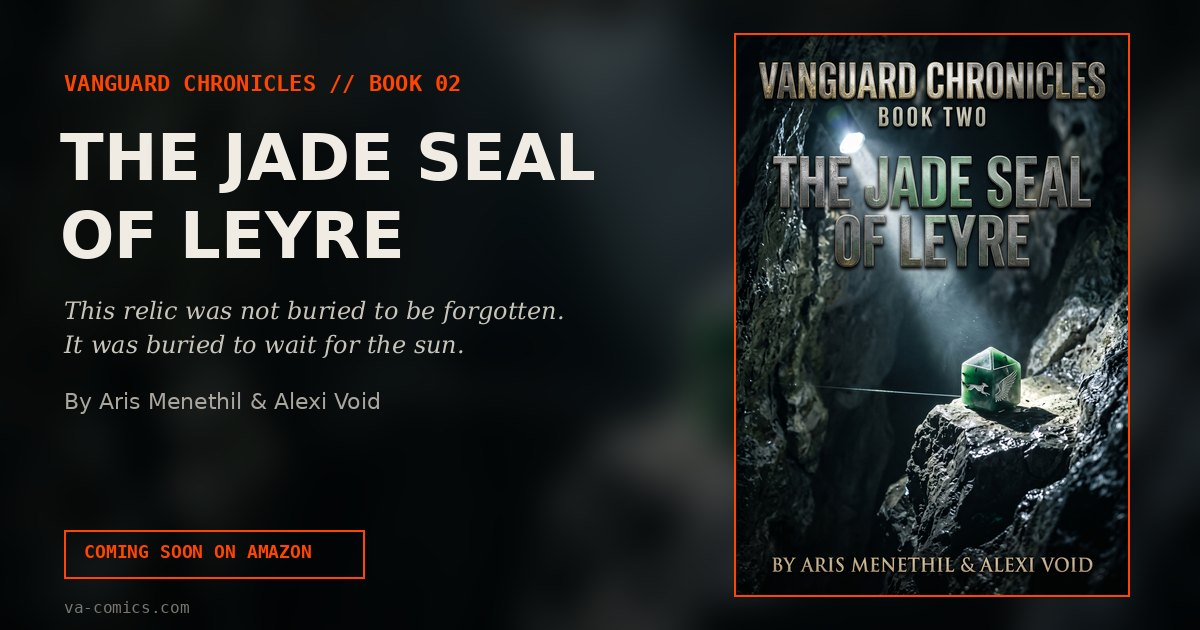
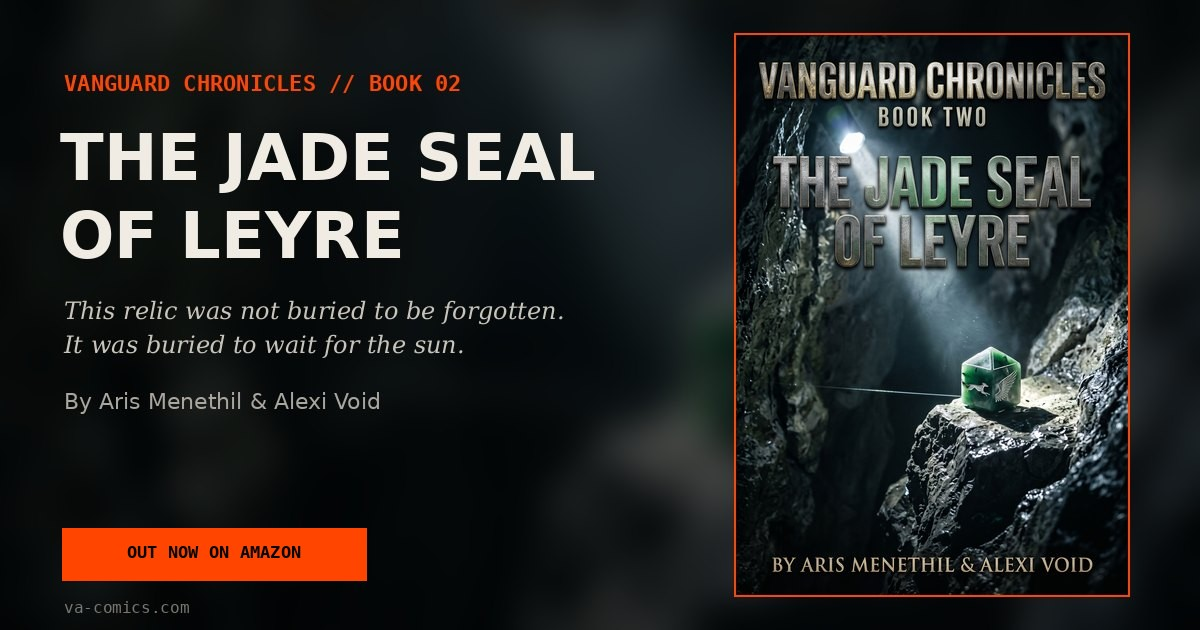
Add files via upload

Changed region(s): [[0.0308, 0.8143, 0.3083, 0.9349]]

diff --git a/vanguard/book2.html b/vanguard/book2.html
@@ -6,12 +6,12 @@
     <title>The Jade Seal of Leyre // Vanguard Chronicles, Book 2</title>
 
     <!-- SEO (descrierea: maxim 155 de caractere) -->
-    <meta name="description" content="The Jade Seal of Leyre, Book 2 of the Vanguard Chronicles: an illustrated novel by Aris Menethil and Alexi Void. Coming soon.">
+    <meta name="description" content="The Jade Seal of Leyre, Book 2 of the Vanguard Chronicles: an illustrated novel by Aris Menethil and Alexi Void. eBook, paperback and hardcover on Amazon.">
     <link rel="canonical" href="https://va-comics.com/vanguard/book2">
     <meta property="og:type" content="book">
     <meta property="og:site_name" content="VA Comics">
     <meta property="og:title" content="The Jade Seal of Leyre // Vanguard Chronicles, Book 2">
-    <meta property="og:description" content="The Jade Seal of Leyre, Book 2 of the Vanguard Chronicles: an illustrated novel by Aris Menethil and Alexi Void. Coming soon.">
+    <meta property="og:description" content="The Jade Seal of Leyre, Book 2 of the Vanguard Chronicles: an illustrated novel by Aris Menethil and Alexi Void. eBook, paperback and hardcover on Amazon.">
     <meta property="og:url" content="https://va-comics.com/vanguard/book2">
     <meta property="og:image" content="https://va-comics.com/vanguard/assets/og-book2.jpg">
     <meta property="og:image:width" content="1200">
@@ -33,11 +33,17 @@
   ],
   "publisher": { "@type": "Organization", "name": "VA Comics" },
   "inLanguage": "en",
+  "datePublished": "2026-11",
   "genre": ["Historical fiction", "Adventure"],
   "isPartOf": { "@type": "BookSeries", "name": "Vanguard Chronicles", "url": "https://va-comics.com/vanguard/" },
   "url": "https://va-comics.com/vanguard/book2",
   "image": "https://va-comics.com/vanguard/assets/covers/book2.webp",
-  "description": "Deep in the freezing karst mountains of Navarre, a medieval hiding place guards the legendary Jade Seal of Leyre, and a ruthless aristocratic house will do anything to reclaim it. Marcus Reed and Kira Mercer, backed by an AI that never lets them forget its genius, are hired to recover the seal before the autumn equinox window closes for another year."
+  "description": "Deep in the freezing karst mountains of Navarre, a medieval hiding place guards the legendary Jade Seal of Leyre, and a ruthless aristocratic house will do anything to reclaim it. Marcus Reed and Kira Mercer, backed by an AI that never lets them forget its genius, are hired to recover the seal before the autumn equinox window closes for another year.",
+  "workExample": [
+    { "@type": "Book", "bookFormat": "https://schema.org/EBook", "url": "https://www.amazon.com/dp/B0HQXBT9LS" },
+    { "@type": "Book", "bookFormat": "https://schema.org/Paperback", "url": "https://www.amazon.com/dp/B0HR24SQQB" },
+    { "@type": "Book", "bookFormat": "https://schema.org/Hardcover", "url": "https://www.amazon.com/dp/B0HR2CJJ3J" }
+  ]
 }
     </script>
     <link rel="stylesheet" href="/style.css">
@@ -47,7 +53,7 @@
 <body data-bg="vanguard">
 
 <!-- ======================================================================
-     VANGUARD CHRONICLES: BOOK 2  (COMING SOON)
+     VANGUARD CHRONICLES: BOOK 2  (OUT NOW, linkuri Amazon puse pe 2026-11-15)
      Când apare pe Amazon: pui cele 3 linkuri (scoți is-disabled + aria-disabled, pui href,
      target="_blank" rel="noopener noreferrer"), schimbi chip-ul COMING SOON, completezi tabelul
      (Released) și adaugi workExample +
@@ -64,7 +70,7 @@
 
         <div class="page-head">
             <nav class="crumbs" id="crumbs"></nav>
-            <div class="title-row"><h1 class="h1">The Jade Seal of Leyre</h1><span class="chip">BOOK 02</span><span class="chip">PG-13</span><span class="chip">COMING SOON</span></div>
+            <div class="title-row"><h1 class="h1">The Jade Seal of Leyre</h1><span class="chip">BOOK 02</span><span class="chip">PG-13</span><span class="chip">OUT NOW</span></div>
         </div>
 
         <div class="book">
@@ -83,11 +89,11 @@
                     <div class="stack-sm">
                         <span class="meta">// GET THE BOOK</span>
                         <div class="btn-row-3">
-                            <a class="btn btn--block is-disabled" aria-disabled="true">eBook</a>
-                            <a class="btn btn--block is-disabled" aria-disabled="true">Paperback</a>
-                            <a class="btn btn--block is-disabled" aria-disabled="true">Hardcover</a>
+                            <a class="btn btn--block" href="https://www.amazon.com/dp/B0HQXBT9LS" target="_blank" rel="noopener noreferrer">eBook</a>
+                            <a class="btn btn--block" href="https://www.amazon.com/dp/B0HR24SQQB" target="_blank" rel="noopener noreferrer">Paperback</a>
+                            <a class="btn btn--block" href="https://www.amazon.com/dp/B0HR2CJJ3J" target="_blank" rel="noopener noreferrer">Hardcover</a>
                         </div>
-                        <span class="meta" style="color: var(--text-5);">&gt; COMING SOON ON AMAZON. NEW READERS: START WITH <a href="/vanguard/book1.html">BOOK 1</a>.</span>
+                        <span class="meta" style="color: var(--text-5);">&gt; OUT NOW ON AMAZON. NEW READERS: START WITH <a href="/vanguard/book1.html">BOOK 1</a>.</span>
                     </div>
                 </div>
             </div>
@@ -104,7 +110,7 @@
                 <dt>Setting</dt><dd>The karst mountains of Navarre, Spain</dd>
                 <dt>Audience</dt><dd>PG-13</dd>
                 <dt>Formats</dt><dd>eBook // Paperback // Hardcover</dd>
-                <dt>Released</dt><dd>Coming soon</dd>
+                <dt>Released</dt><dd>November 2026</dd>
             </dl>
         </div>
 

diff --git a/vanguard/index.html b/vanguard/index.html
@@ -6,12 +6,12 @@
     <title>Vanguard Chronicles // VA Comics</title>
 
     <!-- SEO (descrierea: maxim 155 de caractere) -->
-    <meta name="description" content="Vanguard Chronicles by VA Comics: illustrated historical tech-adventure novels set in the real world. Book 2, The Jade Seal of Leyre, is coming soon.">
+    <meta name="description" content="Vanguard Chronicles by VA Comics: illustrated historical tech-adventure novels set in the real world. Book 2, The Jade Seal of Leyre, is out now.">
     <link rel="canonical" href="https://va-comics.com/vanguard/">
     <meta property="og:type" content="website">
     <meta property="og:site_name" content="VA Comics">
     <meta property="og:title" content="Vanguard Chronicles // VA Comics">
-    <meta property="og:description" content="Vanguard Chronicles by VA Comics: illustrated historical tech-adventure novels set in the real world. Book 2, The Jade Seal of Leyre, is coming soon.">
+    <meta property="og:description" content="Vanguard Chronicles by VA Comics: illustrated historical tech-adventure novels set in the real world. Book 2, The Jade Seal of Leyre, is out now.">
     <meta property="og:url" content="https://va-comics.com/vanguard/">
     <meta property="og:image" content="https://va-comics.com/vanguard/assets/og-vanguard.png">
     <meta property="og:image:width" content="1200">
@@ -79,7 +79,7 @@
                     <div class="stack">
                         <span class="tag">ARCHIVE_FILE // [BOOK_02]</span>
                         <h3 class="h2">Book 2 // The Jade Seal of Leyre</h3>
-                        <div class="chips"><span class="chip">COMING SOON</span></div>
+                        <div class="chips"><span class="chip">OUT NOW</span></div>
                         <p class="small">A medieval hiding place in the frozen karst of Navarre, a legendary jade seal and a window that only opens at the autumn equinox.</p>
                     </div>
                     <div class="row"><a class="btn btn--primary" href="/vanguard/book2.html">LOAD_BOOK_02</a></div>

diff --git a/press.html b/press.html
@@ -105,7 +105,7 @@
                             <dt>Format</dt><dd>Illustrated novels, tech-adventure with real history</dd>
                             <dt>Rating</dt><dd>PG-13</dd>
                             <dt>Book 1</dt><dd>The Sunken Pharaoh: eBook, paperback and hardcover on Amazon</dd>
-                            <dt>Book 2</dt><dd>The Jade Seal of Leyre: coming soon</dd>
+                            <dt>Book 2</dt><dd>The Jade Seal of Leyre: out now (November 2026)</dd>
                             <dt>Review access</dt><dd>Ask us for a Reading Room code and read Book 1 online</dd>
                         </dl>
                     </div>
